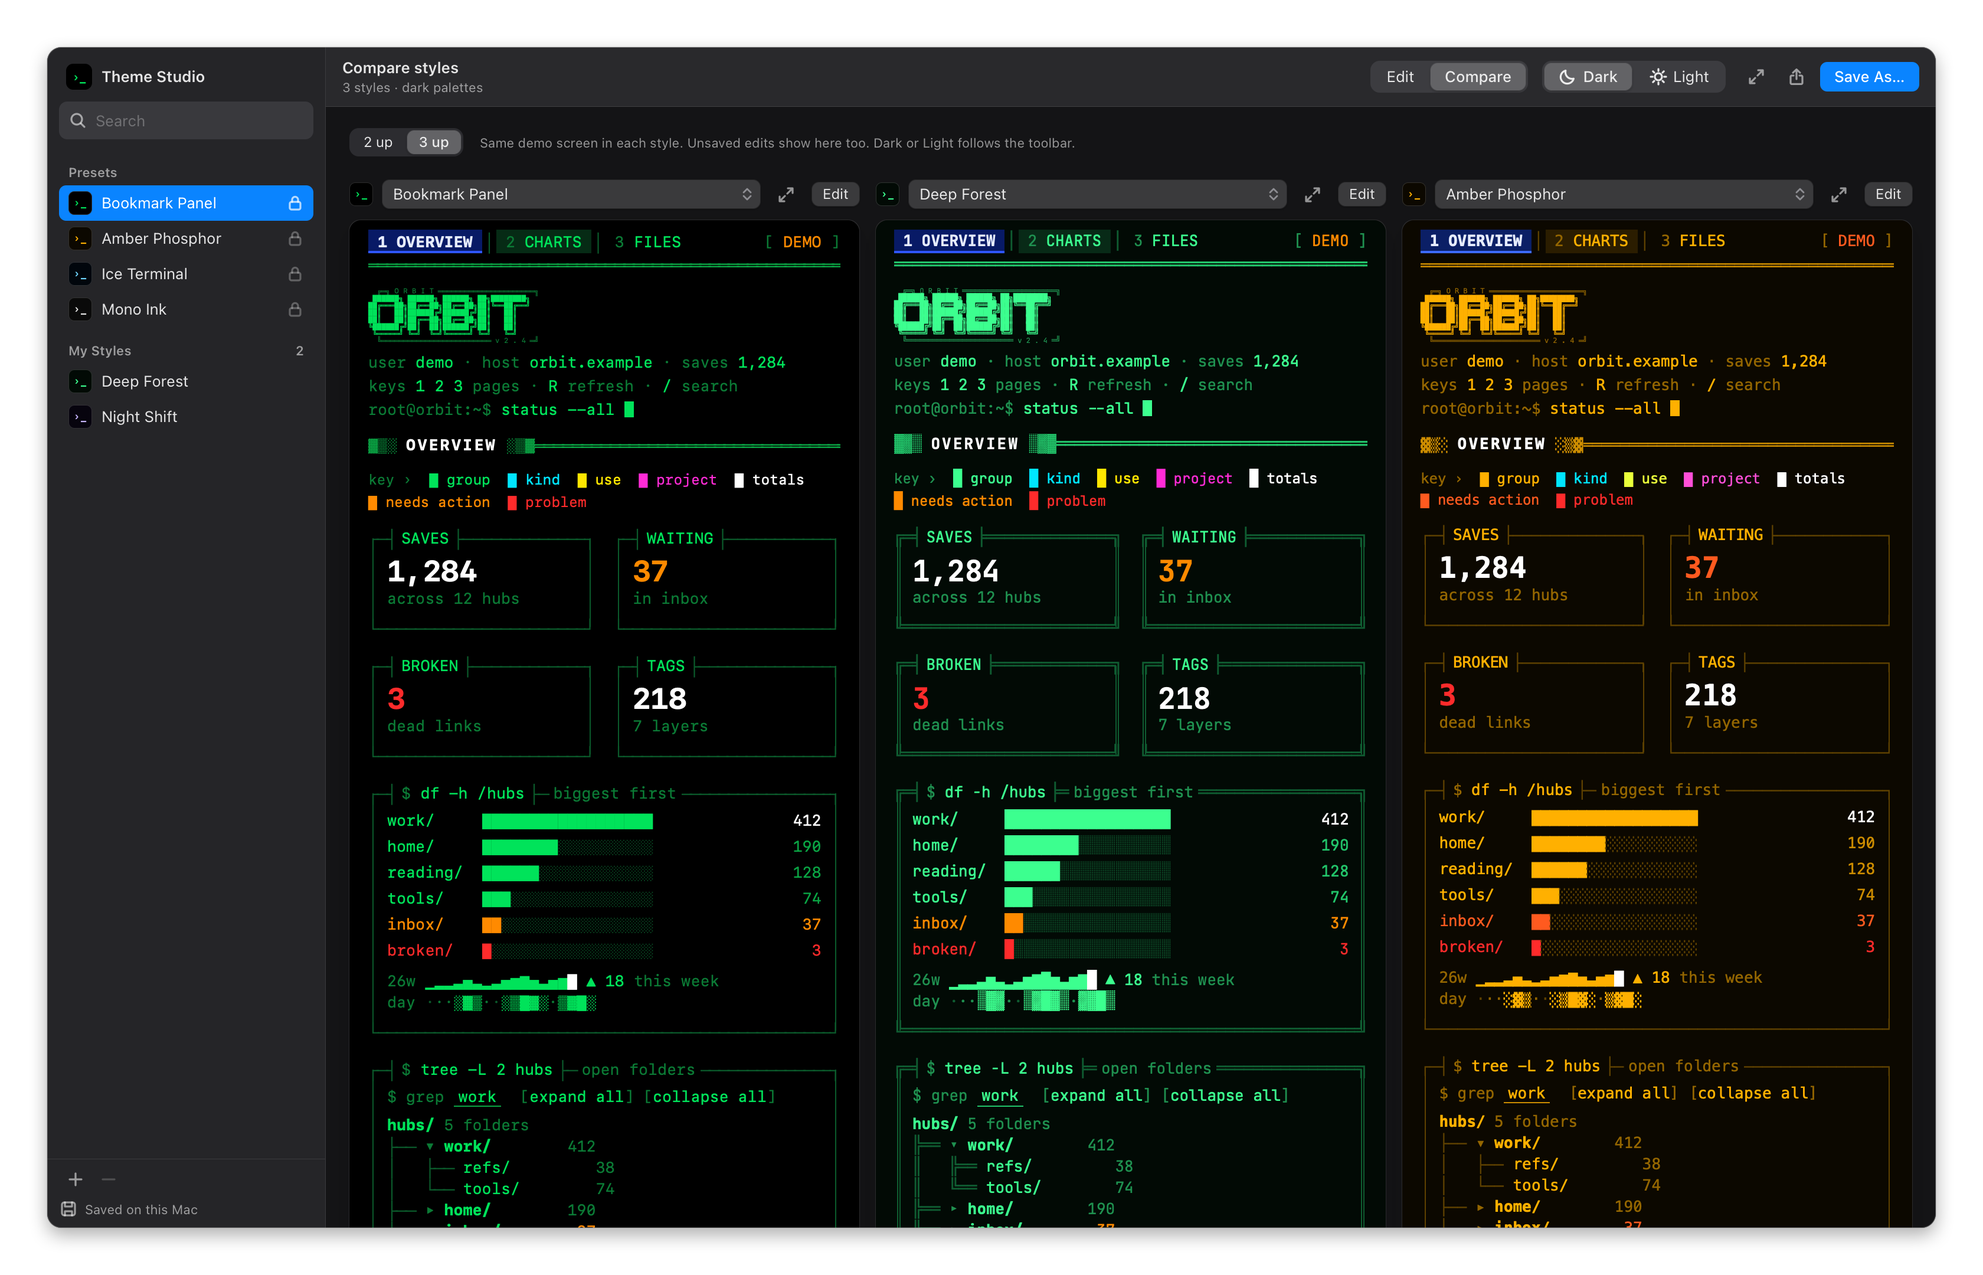
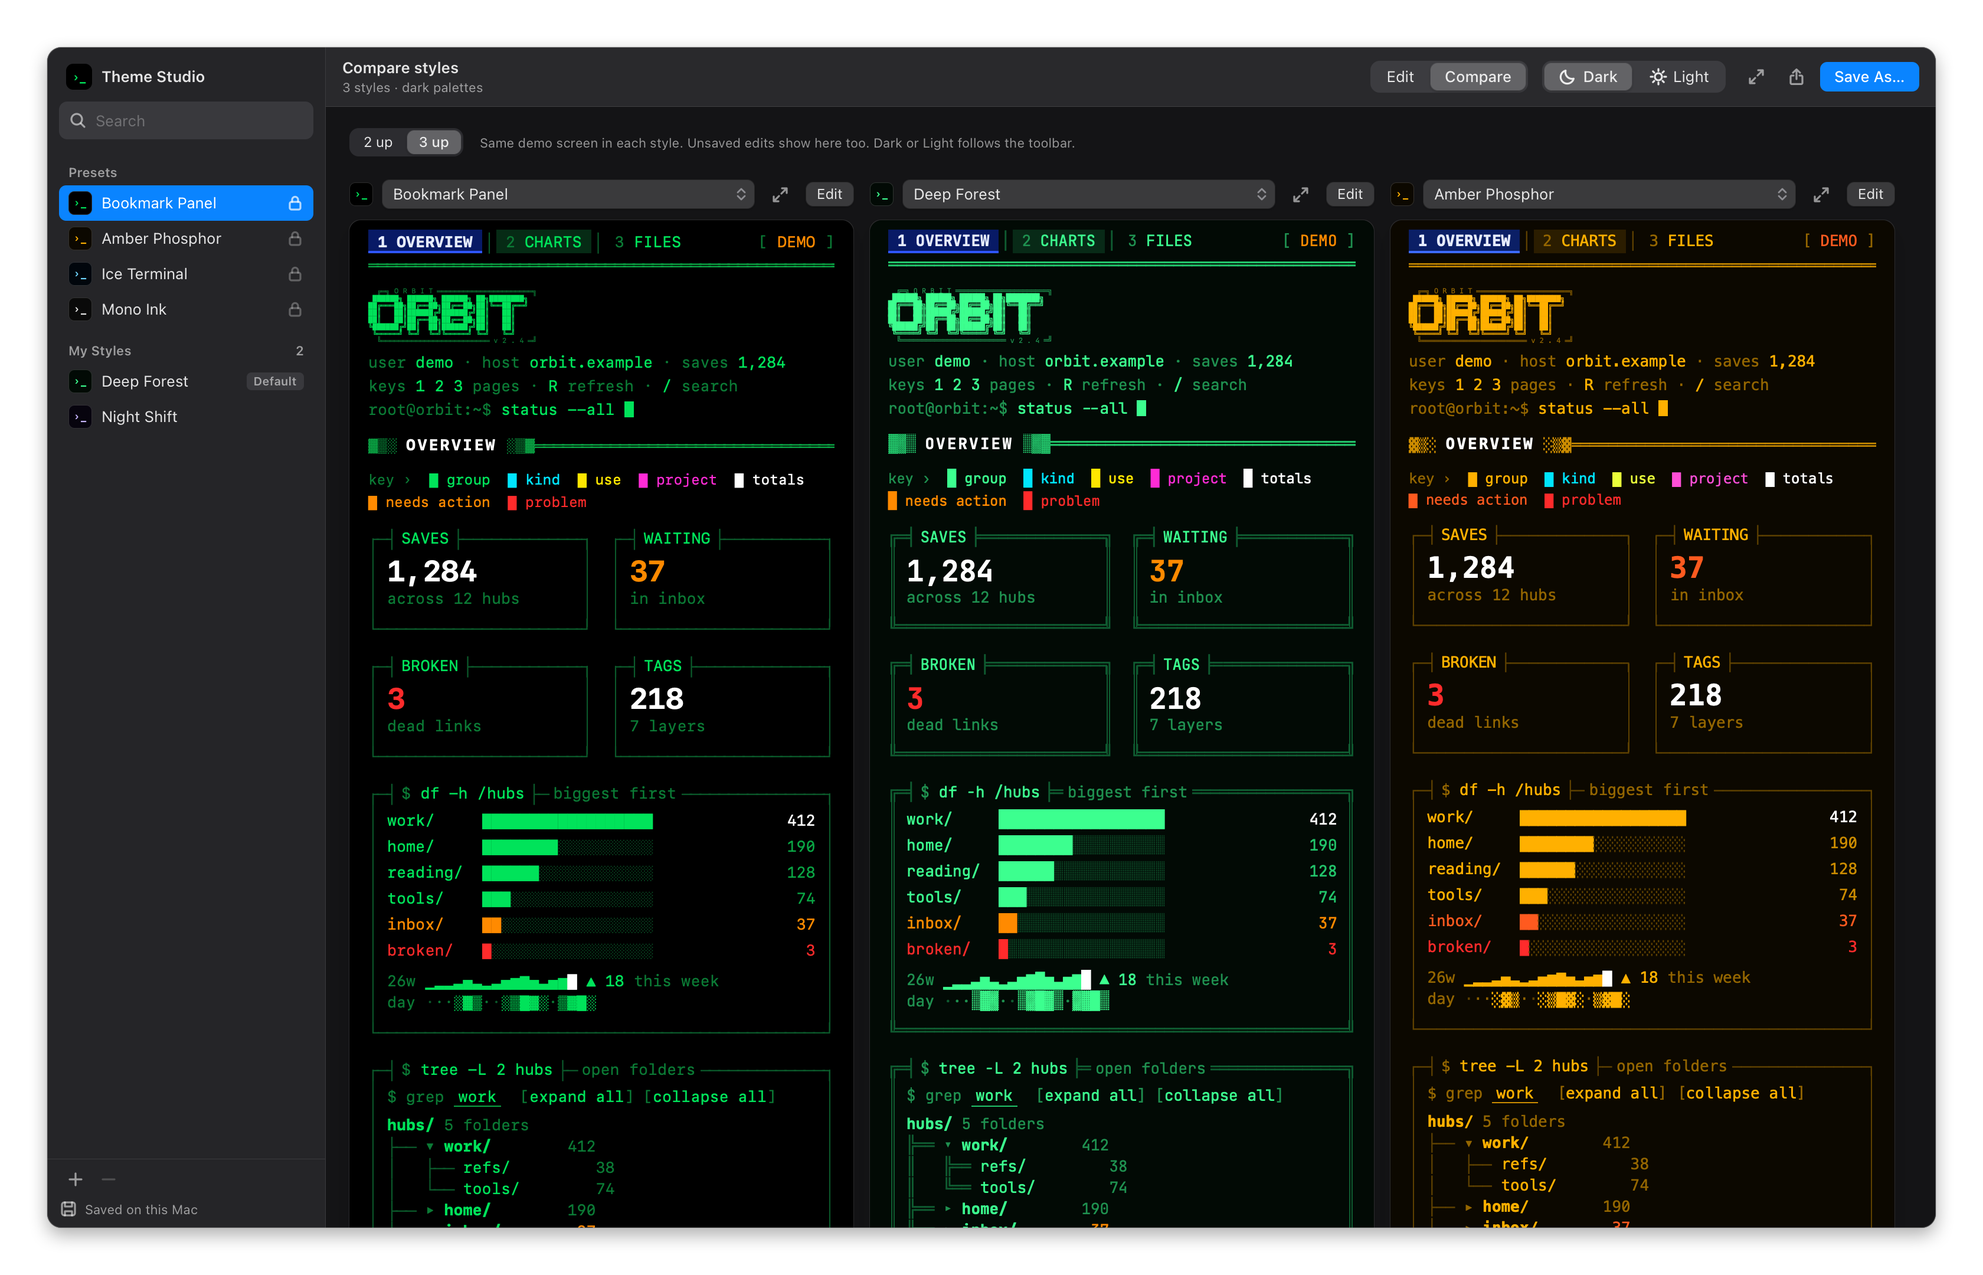
README: shorter copy, refreshed screenshots
Screenshots re-rendered from the current build (now showing the Default badge).

diff --git a/docs/shoot.swift b/docs/shoot.swift
@@ -24,7 +24,7 @@ let examples = """
   s_night: { name: 'Night Shift', updatedAt: \(now - 26 * 3_600_000), box: 'rounded', font: 'fira',
     dark: { bg: '#07040e', fg: '#c8b6ff', fg2: '#9c86e6', dim: '#7a66b8', line: '#3d2f66', faint: '#1a1230', cyan: '#5ef2ff' } } }
 """
-let main = "{ mode: 'main', styles: \(examples) }"
+let main = "{ mode: 'main', defaultId: 's_forest', styles: \(examples) }"
 
 let shots: [Shot] = [
     Shot(name: "editor-dark", width: 1440, height: 900, dark: true,

diff --git a/README.md b/README.md
@@ -1,118 +1,31 @@
-<p align="center">
-  <img src="docs/screenshots/app-icon.png" width="128" alt="Theme Studio icon: a black terminal tile with a green prompt">
-</p>
+<img src="docs/screenshots/app-icon.png" width="80" alt="Theme Studio icon" align="right">
 
-<h1 align="center">Theme Studio</h1>
+# Theme Studio
 
-<p align="center">
-  A Mac app for building, comparing and saving variations of a terminal-style theme.<br>
-  Edit every token, see it live on a full demo screen, and pop any style out into its own window.
-</p>
+macOS app for editing, comparing and saving variants of a terminal-style UI theme, and setting one as the default theme for Claude-built pages.
 
-<p align="center">
-  <img src="docs/screenshots/editor-dark.png" alt="Theme Studio editing the Bookmark Panel style: sidebar of styles, live terminal preview, and an inspector of colour, type and frame settings">
-</p>
-
-## Contents
-
-- [What it's for](#what-its-for)
-- [Features](#features)
-- [Screenshots](#screenshots)
-- [The theme it edits](#the-theme-it-edits)
-- [Install and run](#install-and-run)
-- [Using it](#using-it)
-- [Where styles are saved](#where-styles-are-saved)
-- [Exporting](#exporting)
-- [Setting the default artifact theme](#setting-the-default-artifact-theme)
-- [How it works](#how-it-works)
-- [Project layout](#project-layout)
-- [Regenerating the screenshots](#regenerating-the-screenshots)
-- [Known limits](#known-limits)
-
-## What it's for
-
-The theme is a full-screen terminal look for dashboards and tools: pure black, deep green monospace text, panels framed with box-drawing characters, text-character charts, blue reserved for selection, and six condition colours that each mean exactly one thing.
-
-A look like that lives or dies on small decisions. Is the dim green readable? Does the orange for "needs action" stand apart from an amber base? Do double-line frames make key panels clearer or just busier? Theme Studio puts every one of those decisions on a control and shows the result on a realistic screen, so you can try an idea, compare it with what you had, and keep the version that works.
+![Editor](docs/screenshots/editor-dark.png)
 
 ## Features
 
-**Build**
-- Edit all 15 colour tokens for both the dark palette and the light "paper terminal" palette, with a colour picker and a hex field for each.
-- Contrast badges on every text colour, checked live against the background (AA, AAA or low). Frames are checked against the 3:1 rule for non-text UI.
-- Six monospace typefaces, font size, and line height.
-- Five frame styles: single, rounded, heavy, double and ASCII.
-- Switches for double-line key panels, the blinking cursor and uppercase titles.
-
-**Compare**
-- Two or three styles side by side on the same demo screen.
-- A differences table that lists only the settings that differ, with an option to show everything.
-- Unsaved edits show in Compare too, so you can judge a change before keeping it.
-
-**Pop out**
-- Any style opens in its own native window. Move it to another display, tile it next to the editor, or take it full screen.
-- Pop-out windows redraw live as you edit, and each has its own Dark / Light switch.
-
-**Set the default artifact theme**
-- **Set as Default Theme…** makes any saved style the look Claude uses for the pages and artifacts it builds. It rewrites the `terminal-preview` skill's `reference.html` and the **Current style** section of its `SKILL.md`, after a confirmation sheet.
-- The previous files are kept as `reference.previous.html` and `SKILL.previous.md`, and the sidebar marks the current default.
-
-**Save and export**
-- Four built-in presets stay read-only. Edit one and choose Save As… to keep your version.
-- Saved styles are plain JSON files on disk, one per style.
-- Unsaved edits survive a relaunch and are marked with a dot in the sidebar.
-- Export any style as CSS tokens (in the same layout the theme's reference page uses) or as JSON. Copy it, or save it to a file.
+- Edit all 15 colour tokens for dark and light palettes, with live WCAG contrast badges.
+- Typeface, size, line height, frame style (single, rounded, heavy, double, ASCII), cursor and title options.
+- Compare 2–3 styles side by side, with a diff of changed settings.
+- Pop any style out into its own window; it updates live as you edit.
+- Styles saved as JSON on disk. Export as CSS tokens or JSON.
+- **Set as Default Theme** writes the style into the `terminal-preview` skill used for Claude-built pages.
 
 ## Screenshots
 
-**Light palette.** The same controls edit the light "paper terminal" variant. The app's own chrome follows your Mac's appearance.
-
-![Theme Studio in light appearance editing the Ice Terminal style's light palette](docs/screenshots/editor-light.png)
-
-**Compare.** Three styles on the same screen. Here the Bookmark Panel preset sits beside a saved style and the Amber Phosphor preset.
-
-![Compare view with Bookmark Panel, Deep Forest and Amber Phosphor side by side](docs/screenshots/compare.png)
-
-**Pop-out window.** A style in its own window, kept in sync with the editor.
-
-![A pop-out preview window showing the Amber Phosphor style](docs/screenshots/pop-out.png)
-
-**Export.** Tokens ready to paste into the theme's stylesheet.
-
-![The export sheet showing a style's CSS tokens with Save to File, Done and Copy buttons](docs/screenshots/export.png)
-
-## The theme it edits
-
-Each style is a full set of these tokens, for both a dark and a light palette. The rules column is the contract the theme keeps; the studio's notes and contrast badges help you keep it.
-
-| Token | Role | Rule |
-|---|---|---|
-| `--bg` | Page background | Pure black in the default style |
-| `--fg` | Body text, groups, OK states | |
-| `--fg2` | Secondary text, keys in key/value rows, double-line frames | |
-| `--dim` | Hints, `#` comments, `$` prompts, captions | |
-| `--line` | Single-line frames, tree branches, empty bar track | Needs 3:1 against the background |
-| `--faint` | Hover tint on tabs | Tabs only |
-| `--blue` `--blue-fg` `--blue-line` | Active tab, hover rows, pressed buttons, focus | Selection and highlight only |
-| `--k-cyan` | A kind or type | One meaning per page |
-| `--k-yellow` | A purpose or use | One meaning per page |
-| `--k-magenta` | A project or owner | One meaning per page |
-| `--k-white` | Totals and headline numbers | One meaning per page |
-| `--k-orange` | Needs action | One meaning per page |
-| `--k-red` | A problem | One meaning per page |
-
-### Built-in presets
-
-| Preset | Idea |
+| Light palette | Compare |
 |---|---|
-| **Bookmark Panel** | The default: pure black, deep green mono, blue for selection only. |
-| **Amber Phosphor** | Warm amber text. Orange shifts redder so "needs action" stays distinct from the base. |
-| **Ice Terminal** | Cold blue text. Selection moves to violet and "kind" to teal so neither clashes with the text. |
-| **Mono Ink** | Greyscale base so the condition colours carry all the meaning. Plain ASCII frames. |
+| ![Light](docs/screenshots/editor-light.png) | ![Compare](docs/screenshots/compare.png) |
+| **Pop-out window** | **Export** |
+| ![Pop-out](docs/screenshots/pop-out.png) | ![Export](docs/screenshots/export.png) |
 
-## Install and run
+## Build
 
-**Requirements:** macOS 14 Sonoma or later, on Apple silicon, with Xcode or the Xcode Command Line Tools (Swift 5.10 or later).
+Requires macOS 14+, Apple silicon, Swift 5.10+ (Xcode or Command Line Tools).
 
 ```bash
 git clone https://github.com/ajd1776/theme-studio.git
@@ -121,165 +34,88 @@ cd theme-studio
 open "ThemeStudioMac/build/Theme Studio.app"
 ```
 
-`build.sh` compiles the app, wraps the page into the bundle, draws the icon and signs the app ad hoc for this Mac. To keep it, drag `Theme Studio.app` into Applications.
+`build.sh` compiles, bundles the page and icon, and ad-hoc signs the app. Rerun it after changing `theme-studio.html` or the Swift sources.
 
-The page also runs in any browser. Open `ThemeStudioMac/build/Theme Studio.app/Contents/Resources/index.html`; without the Mac app around it, styles save in that browser's storage.
+## Shortcuts
 
-## Using it
-
-| Action | Shortcut |
+| Action | Keys |
 |---|---|
-| Save | ⌘S |
-| New style from the selected one | ⌘D |
-| Export tokens | ⌘E |
-| Pop out the preview | ⇧⌘P, or P |
-| Set as default artifact theme | Style › Set as Default Artifact Theme… |
-| Dark palette / Light palette | ⌘1 / ⌘2 |
-| Edit view / Compare view | ⌥⌘1 / ⌥⌘2 |
-| Close a sheet or the sidebar overlay | Esc |
+| Save / New from selected / Export | ⌘S / ⌘D / ⌘E |
+| Pop out preview | ⇧⌘P or P |
+| Dark / Light palette | ⌘1 / ⌘2 |
+| Edit / Compare | ⌥⌘1 / ⌥⌘2 |
+| Set as default theme | Style › Set as Default Artifact Theme… |
 
-The File menu also has **Revert Changes** and **Show Saved Styles in Finder**.
+## Data
 
-A typical loop:
+| What | Where |
+|---|---|
+| Saved styles | `~/Library/Application Support/Theme Studio/styles/<id>.json` |
+| Current default | `~/Library/Application Support/Theme Studio/default.json` |
+| Drafts, UI state | WKWebView local storage |
 
-1. Pick a preset in the sidebar and change anything. The title bar shows **Edited**.
-2. Check the contrast badges as you go. A red **low** badge means that text will be hard to read.
-3. Press ⇧⌘P to pop the style out, then put the window somewhere you can watch it.
-4. Choose **Save As…** and name your version. It appears under **My Styles**.
-5. Switch to **Compare** to put it next to the preset you started from.
-6. Press ⌘E to export the tokens when you're happy.
+Missing fields in a style file fall back to the Bookmark Panel preset.
 
-## Where styles are saved
+## Default theme
 
-Each saved style is one JSON file:
+**Set as Default Theme** (saved styles only) confirms, then writes to `~/.claude/skills/terminal-preview/`:
 
-```
-~/Library/Application Support/Theme Studio/styles/<id>.json
-```
+- `reference.html`: generated from [`reference-template.html`](ThemeStudioMac/Resources/reference-template.html) with the style's tokens, type, frames and cursor.
+- `SKILL.md`: only the block between `<!-- theme-studio:begin -->` and `<!-- theme-studio:end -->` is replaced.
 
-```json
-{
-  "name": "Deep Forest",
-  "notes": "",
-  "dark":  { "bg": "#020a05", "fg": "#3cff8f", "fg2": "#22c46a", "dim": "#1f9150", "...": "..." },
-  "light": { "bg": "#f4f6f1", "fg": "#00702c", "...": "..." },
-  "font": "jet", "size": 13, "lh": 1.45, "box": "double",
-  "dblKey": true, "blink": true, "upper": true,
-  "updatedAt": 1795000000000
-}
-```
+Previous versions are kept as `reference.previous.html` and `SKILL.previous.md`. If the markers are missing, nothing is written.
 
-Missing fields fall back to the Bookmark Panel values, so a hand-written file with only a name and a few colours still loads. Unsaved edits and the last view you used are kept separately in the app's web storage.
+## Architecture
 
-## Exporting
-
-The CSS export is dark-first and matches the theme's reference stylesheet, so it can replace the `:root` blocks directly:
-
-```css
-/* Deep Forest: JetBrains Mono 13px / 1.45, double frames, double key panels */
-:root {
-  /* base: dark (the default look) */
-  --bg: #020a05; --fg: #3cff8f; --fg2: #22c46a; --dim: #1f9150; --line: #0f5c31; --faint: #082a17;
-  --blue: #081a66; --blue-fg: #e6ecff; --blue-line: #2f56ff;
-  --k-cyan: #00e5ff; --k-yellow: #ffe600; --k-magenta: #ff2bd6; --k-white: #ffffff; --k-orange: #ff8a00; --k-red: #ff2b2b;
-  --mono: "JetBrains Mono", ui-monospace, Menlo, monospace;
-  --fs: 13px; --lh: 1.45;
-  color-scheme: dark;
-}
-/* light "paper terminal" */
-@media (prefers-color-scheme: light) { :root:not([data-theme="dark"]) { /* light tokens */ } }
-:root[data-theme="light"] { /* light tokens */ }
-```
-
-## Setting the default artifact theme
-
-Claude builds pages for you with the `terminal-preview` skill in `~/.claude/skills/terminal-preview/`. Theme Studio can point that skill at any style:
-
-1. Save the style (unsaved edits can't be set as default).
-2. Choose **Set as Default…** in the inspector, or **Style › Set as Default Artifact Theme…**.
-3. Confirm. The app writes two files:
-   - `reference.html`, generated from the box-drawing template in [`ThemeStudioMac/Resources/reference-template.html`](ThemeStudioMac/Resources/reference-template.html) with the style's colours, typeface, size, line height, frame characters, key-panel lines and cursor.
-   - The section of `SKILL.md` between `<!-- theme-studio:begin -->` and `<!-- theme-studio:end -->`, with the colour table, type and frame notes. The rest of `SKILL.md` is left alone.
-
-The block letters of the banner always keep their own shapes. If `SKILL.md` has no Theme Studio section, nothing is written and the app says so. **Style › Show Default Theme Files in Finder** opens the skill folder.
-
-## How it works
-
-The interface is one HTML page, [`theme-studio.html`](theme-studio.html), with no dependencies beyond Google Fonts. The Mac app is a small SwiftUI shell that shows that page in a `WKWebView` and gives it native powers through a message bridge.
+The UI is one HTML file, [`theme-studio.html`](theme-studio.html). The app is a SwiftUI shell that loads it in `WKWebView`s and bridges native features.
 
 ```mermaid
 flowchart LR
-  subgraph App["Theme Studio.app (SwiftUI)"]
-    Main["Editor window<br/>WKWebView"]
-    Store["StyleStore<br/>JSON files + live state"]
-    P1["Pop-out window<br/>WKWebView"]
-    P2["Pop-out window<br/>WKWebView"]
-    Menus["Menu commands"]
-  end
-  Disk[("~/Library/Application Support/<br/>Theme Studio/styles")]
-
-  Main -- "save / delete" --> Store
-  Store <--> Disk
-  Main -- "live: every style as shown" --> Store
-  Store -- "TS_live(…)" --> P1
-  Store -- "TS_live(…)" --> P2
-  Main -- "popout(id)" --> App
-  Menus -- "TS.save(), TS.popOut(), …" --> Main
+  Main["Editor WKWebView"] -- save / delete / live --> Store["StyleStore"]
+  Store <--> Disk[("styles/*.json")]
+  Store -- "TS_live()" --> Pop["Pop-out WKWebViews"]
+  Main -- setDefault --> Skill[("terminal-preview skill")]
+  Menus["Menu commands"] -- "window.TS.*" --> Main
 ```
 
-- **Boot.** Each web view gets a script at document start that sets `window.__TS_NATIVE` with its role (`main` or `preview`) and the styles saved on disk.
-- **Page to app.** The page posts messages to `webkit.messageHandlers.studio`:
+Page → app messages (`webkit.messageHandlers.studio`):
 
-  | Message | What the app does |
-  |---|---|
-  | `save` `{id, json}` | Writes `<id>.json` |
-  | `delete` `{id}` | Removes `<id>.json` |
-  | `live` `{json, variant}` | Stores every style as currently shown, unsaved edits included |
-  | `popout` `{id, variant}` | Opens (or brings forward) that style's preview window |
-  | `title` `{text}` | Sets the window title or subtitle |
-  | `copy` `{text}` | Puts text on the clipboard |
-  | `saveFile` `{name, text}` | Shows a Save panel and writes the file |
-  | `setDefault` `{id, name, reference, skill}` | Confirms, backs up and writes the skill's `reference.html` and Current style section |
+| Type | Effect |
+|---|---|
+| `save`, `delete` | Write/remove a style file |
+| `live` | Broadcast current styles (incl. drafts) to pop-outs |
+| `popout` | Open or focus a preview window |
+| `title` | Set window title/subtitle |
+| `copy`, `saveFile` | Clipboard, Save panel |
+| `setDefault` | Confirm, back up, write skill files |
 
-- **App to page.** Menu commands call `window.TS` (`save`, `duplicate`, `revert`, `openExport`, `popOut`, `setVariant`, `setMode`). Preview windows receive `window.TS_live(styles)` whenever the editor changes anything.
-- **Outside the app** the same page detects that there is no bridge and falls back to browser storage, with an in-page pop-out overlay instead of a native window.
+Outside the app, the page falls back to browser storage and an in-page pop-out overlay.
 
-## Project layout
+## Layout
 
 ```
-theme-studio/
-├── theme-studio.html          the whole interface: styles, presets, preview renderer, bridge
-├── ThemeStudioMac/
-│   ├── Package.swift
-│   ├── Sources/ThemeStudio/
-│   │   ├── ThemeStudioApp.swift   app, windows, menu commands
-│   │   ├── StudioWebView.swift    WKWebView host and message bridge
-│   │   └── StyleStore.swift       JSON files on disk, live state for pop-outs
-│   ├── Resources/reference-template.html   template for the default artifact theme
-│   ├── Info.plist
-│   ├── make-icon.swift        draws the app icon
-│   └── build.sh               builds "Theme Studio.app" into ThemeStudioMac/build
-└── docs/
-    ├── shoot.swift            renders the README screenshots
-    └── screenshots/
+theme-studio.html                  UI, presets, renderer, theme generator
+ThemeStudioMac/
+  Sources/ThemeStudio/
+    ThemeStudioApp.swift           scenes, menus
+    StudioWebView.swift            WKWebView host, message bridge
+    StyleStore.swift               style files, live state, default theme writer
+  Resources/reference-template.html
+  build.sh, make-icon.swift, Info.plist
+docs/shoot.swift                   renders screenshots offscreen
 ```
 
-After changing `theme-studio.html` or the Swift sources, run `./ThemeStudioMac/build.sh` again.
+## Regenerating screenshots
 
-## Regenerating the screenshots
-
-The screenshots are rendered from the page the app ships, offscreen with WebKit, using example styles. Nothing on your screen is captured.
+Rendered offscreen with WebKit from example styles:
 
 ```bash
-./ThemeStudioMac/build.sh
 swift docs/shoot.swift "ThemeStudioMac/build/Theme Studio.app/Contents/Resources/index.html" docs/screenshots
 ```
 
-Edit the `shots` list in [`docs/shoot.swift`](docs/shoot.swift) to change what each one shows.
+## Limitations
 
-## Known limits
-
-- The app is signed ad hoc, so it runs on the Mac that built it. On another Mac, build it there, or right-click the app and choose Open the first time.
-- JetBrains Mono, IBM Plex Mono, Fira Code and Space Mono load from Google Fonts, so they need a network connection. SF Mono and Menlo are built in.
-- The build script targets Apple silicon (`--arch arm64`).
-- No license has been chosen yet, so all rights are reserved.
+- Ad-hoc signed: build on the Mac you run it on.
+- arm64 only.
+- JetBrains Mono, IBM Plex Mono, Fira Code and Space Mono load from Google Fonts.
+- No license yet; all rights reserved.
